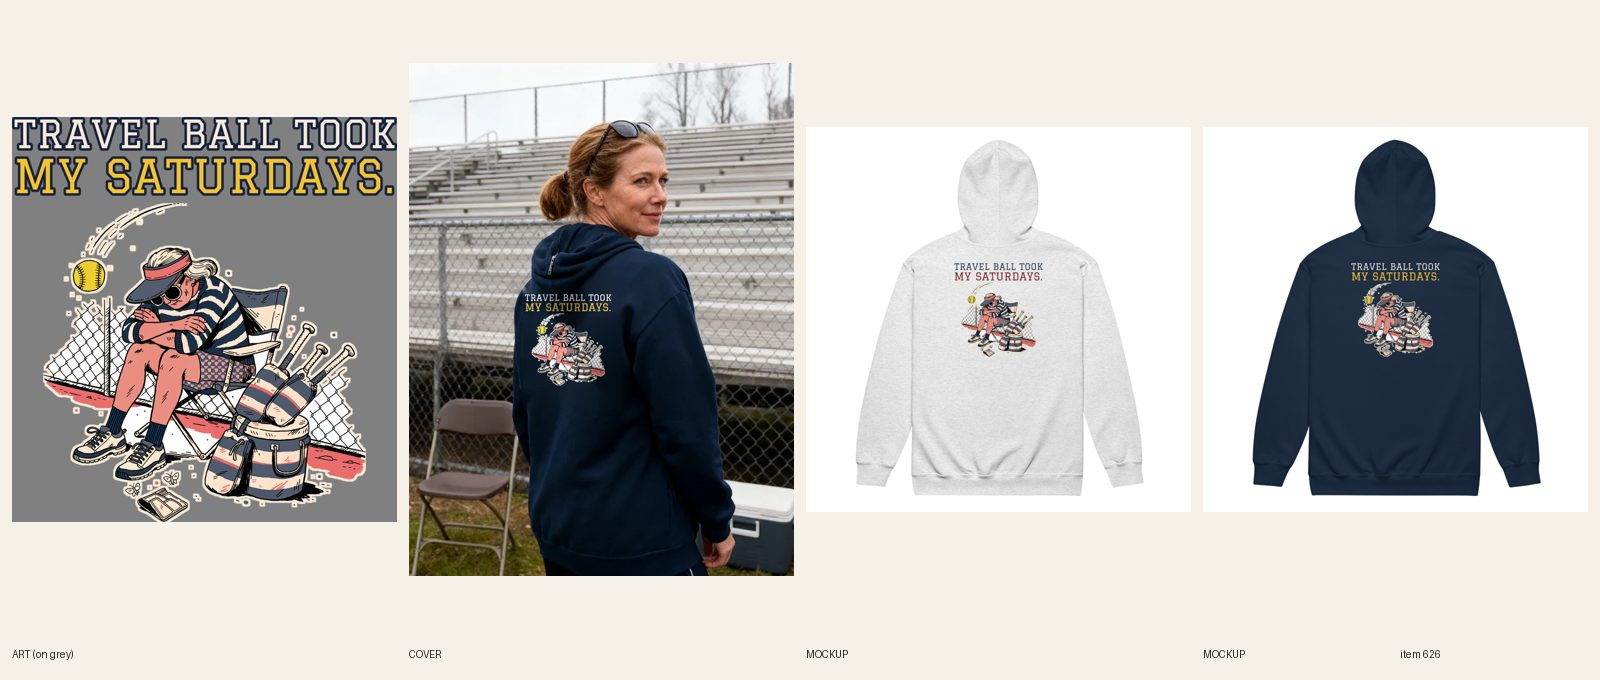
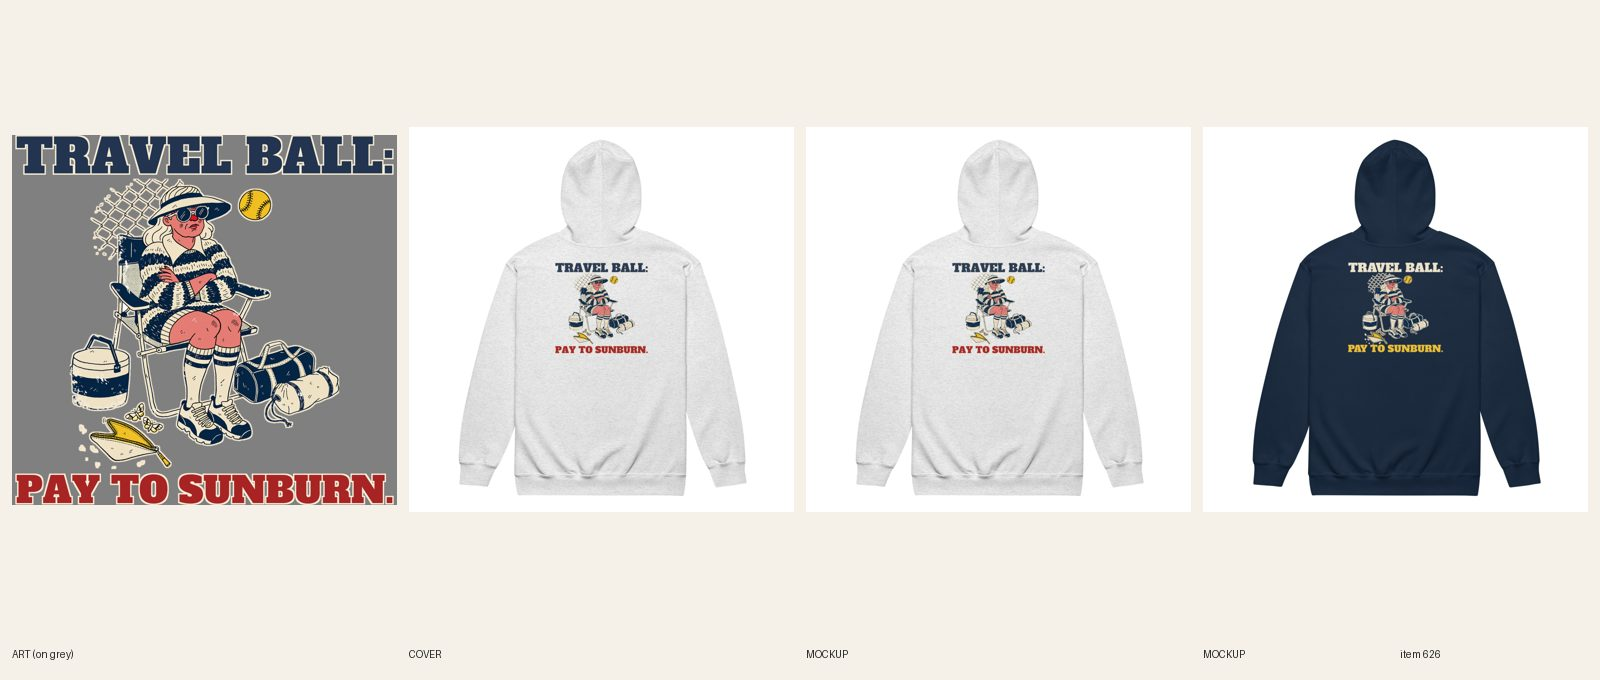
[C] review 626 (redo)
Claude-Session: https://claude.ai/code/session_01CCHcDj8LcJJ8qUPtKE3cvn

diff --git a/designs/c626/make.py b/designs/c626/make.py
@@ -1,0 +1,8 @@
+import sys; sys.path.insert(0,'.')
+from designs.lib import *
+im=Image.open('designs/e535b/print.png').convert('RGBA'); W=im.width
+art=im.crop((0,397,W,3115))
+DK=(34,52,79,255); RED=(168,36,36,255)
+h1=line("TRAVEL BALL:",'alfa',0.985,W,DK,CREAM,kw=27); h2=line("PAY TO SUNBURN.",'alfa',0.985,W,RED,CREAM,kw=27)
+print('headline px',h1.width,'punch px',h2.width,'heights',h1.height,h2.height)
+out=lockup(art,W,[h1],[h2],'626-v2-sunburn-ash',{'ash':(200,200,200,255)}); print(out.size)

diff --git a/docs/pipeline/626-softball-mom-zip-hoodie-travel-ball.md b/docs/pipeline/626-softball-mom-zip-hoodie-travel-ball.md
@@ -1,4 +1,4 @@
-status: BUILDING [C] 2026-10-20 09:47
+status: REVIEW
 shopify: gid://shopify/Product/15364932370736
 lane: C
 type: twin
@@ -29,3 +29,4 @@ kd: 33
 - 2026-10-18 08:39 UTC builder [C]: Printful relink verified 12/12 (6 Ash: back 1088767837, chest 1088767840; 6 Navy: back 1088658352, chest 1088767840); REVIEW.
 - 2026-10-18 09:22 UTC director: LIVE. approved from docs/review/626.jpg (Ash dark-ink back file, Navy light-ink; composite clean). ACTIVE + Online Store/Headless/Google & YouTube, audit --handle PASS (0 warn).
 - 2026-10-18 17:22 UTC director: QUALITY RESET grade C (new line + type), REDO. The product stays ACTIVE (same handle, URL, title keyword). 1. Line (R3.12, quality-reset 'Lines'): "Travel Ball Took / My Saturdays.": Complaint, not a joke; no punch line. Write 5 candidates, keep the one a stranger laughs at in 3 seconds without backstory; kill lines that only describe the picture; if none of the 5 is funny, PARK it. 2. Quality reset type bar (docs/backlog/quality-reset.md, 'The new bar'): headline at least 90% of the art width, heavy, colors pulled from the art; second line at least 45% of the headline's height, never a thin script on a dark or mid garment; use the lettering as a shape (arch, stacked lockup, words breaking into the art), not a plain bar above and a script line below; no font used on more than 1 in 6 of the last 30 designs. 3. Keep the art if it carries the new line, else one new illustration (R4/R5). New print means a new cover per R6.10, copy line one rewritten for the new joke (R8.3), and a fresh review sheet (R7.7). While quality-reset.md says PAUSED, only lane A builds, and only the samples step 2 names.
+- 2026-10-20 09:52 UTC builder [C]: REDO new line + type (grade C; title card 7i done). Twin of #535, whose lane E redo (REVIEW, approved by the director at 06:40) chose TRAVEL BALL: / PAY TO SUNBURN. after 5 candidates against Oops. Anyway. and Wildly Low Maintenance; twins carry the design's line (R3.9), so this zip hoodie ports that line and art (the new sunburned-mom-in-a-camp-chair art, designs/e535b/print.png) instead of making a second line. Measured ink widths (card 7h): Ash file headline TRAVEL BALL: 3538 px / punch PAY TO SUNBURN. 3540 px (100%; the Navy file is #535's own, headline and punch both at the full 3600 px width). Alfa Slab One both lines. Light-file (R5.3.8): Ash file 1090285645 is a new file (headline navy with a cream keyline, punch red with a cream keyline; docs/print-files/626-v2-sunburn-ash.png), Navy file 1090285675 is #535's cream-and-yellow file (docs/print-files/626-v2-sunburn-navy.png); logged: light file Ash on file 1090285645, headline fill navy. Back BW 1650 BT 225 (about 1,590 px high), chest copy rebuilt from the new art alone (file 1090285470, 2520 x 2718, no words; the old chest copy was the previous mom art), 12/12 relinked (verified on the API; a first run died on an unfinished chest file lookup, rerun clean). Both back mockups replaced in place, read at phone size. Title set to "Women's Softball Mom – Travel Ball: Pay to Sunburn Zip Hoodie" (handle unchanged); copy, FAQ and SEO rewritten for the new line and the new art (camp chair, arms crossed). Handle in retired-covers.json. Plain product shot. fal $0.

diff --git a/docs/intake-log.md b/docs/intake-log.md
@@ -25,6 +25,7 @@ RUNNING lane B since 2026-10-20 09:02 UTC
 2026-10-20 07:44 UTC — [B] Builder run: REDO round 3 of #455 Unisex Hanukkah Lost My Gelt crewneck (dreidel face marks painted out, Navy file 1090236634 + Sport Grey file 1090236680, FW 1650 TOP 0, 12/12 relinked, 2 fronts replaced in place) and #469 Women's Christmas embroidered crewneck (new line BOOKED / THROUGH JANUARY., headline 2197 / punch 2197 px, Sand file 1090237592 + Navy file 1090237605, 12/12 synced, title/SEO/copy/alts updated). Both REVIEW. #498 left for director (R3.14 note). fal $0.
 2026-10-20 08:00 UTC — [E] Builder run: redid #608 Women's Pickleball tee (line + type: POLITE SMILE. / PERSONAL VENDETTA., same serene-lady art, Bevan, dark-ink file on 5 light colors, 30/30 synced). REVIEW. fal $0.
 RUNNING lane C since 2026-10-20 07:00 UTC
+2026-10-20 09:52 UTC — [C] Builder run: redid #626 Women's Softball Mom zip hoodie (twin of #535: TRAVEL BALL: / PAY TO SUNBURN., new camp-chair art, Ash file 1090285645 + Navy file 1090285675, chest 1090285470, BW 1650 BT 225, 12/12 relinked, back mockups replaced, title + copy + SEO updated). REVIEW. fal $0.
 2026-10-20 09:46 UTC — [C] Builder run: redid #571 Women's Teacher zip hoodie (new line + type: IT'S RAINING. / SEND COFFEE., headline 2980 px / punch 3042 px, Big Shoulders + Bowlby, same apple art, Ash file 1090283743 + Navy file 1090283769, BW 1650 BT 225, 12/12 relinked, back mockups replaced, title + copy + SEO updated). REVIEW. fal $0.
 2026-10-20 09:42 UTC — [C] Builder run: redid #528 Unisex Running zip hoodie (new line + type: ON MY WAY. / EVENTUALLY., headline 3482 px / punch 3535 px, Bowlby + Alfa, same snail art, Ash file 1090281314 + White file 1090281353, BW 1650 BT 225, 12/12 relinked, back mockups replaced, title + copy + SEO updated). REVIEW. fal $0.
 2026-10-20 09:35 UTC — [C] Builder run: redid #524 Women's Funny daisy hoodie (type only: I SAID IT NICELY Bowlby + IN MY HEAD. Alfa Slab, headline 3256 px / punch 3283 px, Sand file 1090279357 + Light Pink file 1090279421, FW 1500 TOP 0, 12/12 relinked, 2 fronts replaced in place, copy updated). REVIEW. fal $0.
